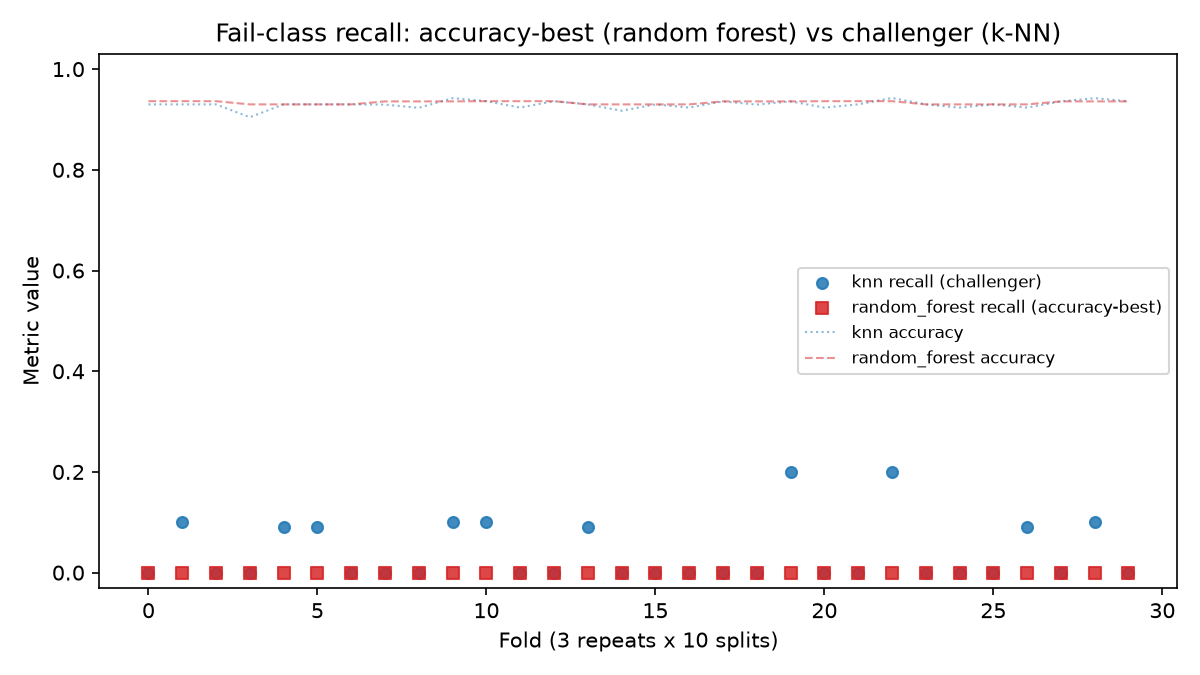
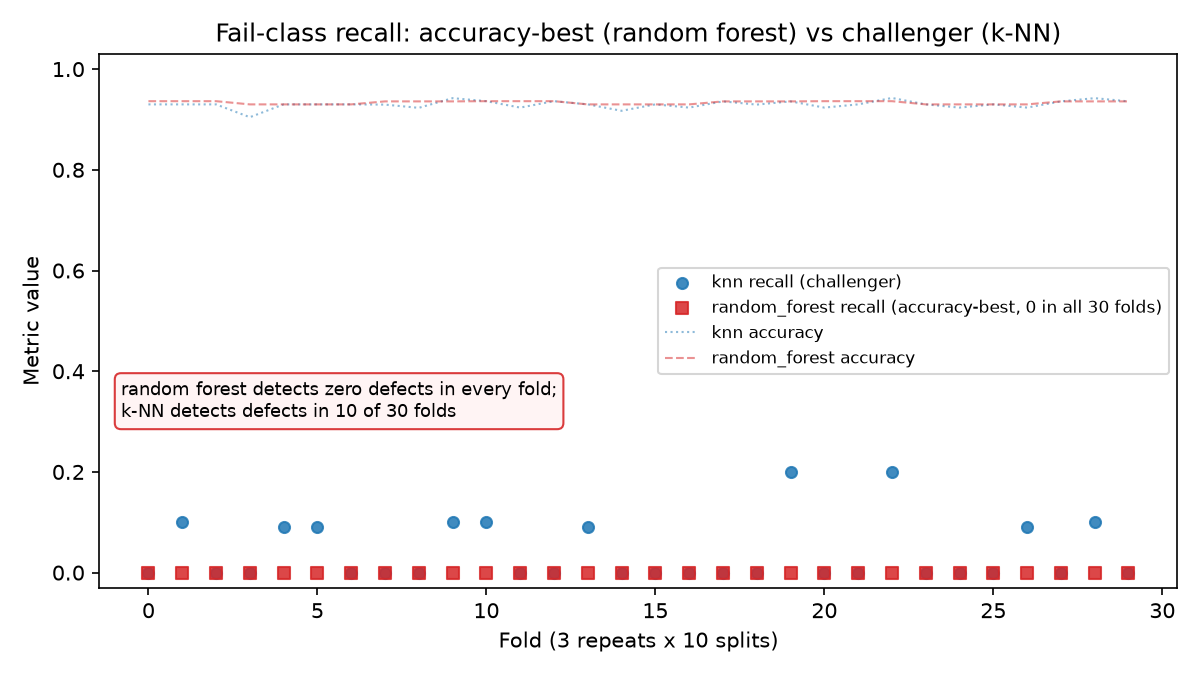
docs(findings): validation amendments and sharper figure 1 (#9)
Independent counter-check (fresh recomputation of every published
number from the raw records, outside analysis.py) confirmed all
results: means, sign test p = 0.001953125, cost tables, pooled
integrity (4701 labels, each unit exactly 3 times), dataset digests
and class counts. Amendments from the audit and decision review:

- findings.md: state the co-primary comparison is the seal's pinned
  0.5-vs-p_star threshold comparison reported descriptively; explain
  ranking_flip_vs_accuracy flag semantics (compares the p_star
  ranking, hence false); note pooling weights each unit exactly 3x;
  add mechanism numbers (random forest max fail probability 0.45,
  below the cutoff everywhere; 83 FN vs 312 at p_star); add k-NN
  per-fold recall spread (0.09-0.20 across 10 folds); add the
  descriptive accuracy-parity addendum (RF better in 14/17 nonzero
  accuracy folds, p ~ 0.013); clarify the 10:1 sensitivity changes
  cost weights only (its own aligned threshold 1/11 is not evaluated).
- fig1: annotate that the random forest detects zero defects in every
  fold vs k-NN's 10 of 30, so the flat-zero scatter cannot be missed.

Changed region(s): [[0.0925, 0.5289, 0.4625, 0.6533], [0.555, 0.4044, 0.9558, 0.56]]

diff --git a/figures/fig1-recall-inversion.py b/figures/fig1-recall-inversion.py
@@ -37,7 +37,7 @@ def main():
     xs = range(n)
     ax.scatter(xs, recall_chal, marker="o", s=28, label=f"{CHALLENGER} recall (challenger)",
                color="#1f77b4", alpha=0.85)
-    ax.scatter(xs, recall_best, marker="s", s=28, label=f"{BEST} recall (accuracy-best)",
+    ax.scatter(xs, recall_best, marker="s", s=28, label=f"{BEST} recall (accuracy-best, 0 in all 30 folds)",
                color="#d62728", alpha=0.85)
     ax.plot(xs, acc_chal, linestyle=":", linewidth=1, color="#1f77b4", alpha=0.5,
             label=f"{CHALLENGER} accuracy")
@@ -47,6 +47,10 @@ def main():
     ax.set_ylabel("Metric value")
     ax.set_title("Fail-class recall: accuracy-best (random forest) vs challenger (k-NN)")
     ax.set_ylim(-0.03, 1.03)
+    ax.annotate("random forest detects zero defects in every fold;\n"
+                "k-NN detects defects in 10 of 30 folds",
+                xy=(0.02, 0.32), xycoords="axes fraction", fontsize=8.5,
+                bbox=dict(boxstyle="round,pad=0.35", fc="#fff3f3", ec="#d62728", alpha=0.9))
     ax.legend(fontsize=8, loc="center right")
     fig.tight_layout()
     out = pathlib.Path(__file__).parent / "fig1-recall-inversion.png"

diff --git a/results/findings.md b/results/findings.md
@@ -40,8 +40,15 @@ records under `results/pilot/` are excluded.
 
 The accuracy-best model (random forest) misses **every** defect across all 30
 test folds (mean fail recall 0.0000; precision identically 0.0000, since it
-never predicts the fail class at all). The challenger (k-NN, second by mean
-accuracy) misses fewer: mean fail recall 0.0388.
+never predicts the fail class at all: its maximum predicted fail probability
+is 0.45, below the 0.5 cutoff on every unit). The challenger (k-NN, second by
+mean accuracy) misses fewer: mean fail recall 0.0388, with nonzero recall in
+10 of 30 folds (0.09 and 0.10 in four folds each, 0.20 in two).
+
+Accuracy is not a consolation for the challenger: on per-fold accuracy the
+random forest is better in 14 of 17 nonzero folds (descriptive addendum, not
+the pre-registered test; two-sided exact binomial p ≈ 0.013) - it is
+significantly more accurate and defect-blind at the same time.
 
 Sign test (pre-specified): per-fold recall difference is nonzero in 10 of 30
 folds; the challenger has higher recall in **10 of 10 nonzero folds**
@@ -52,7 +59,13 @@ the pinned tie rule.
 
 ### Co-primary endpoint: threshold alignment reverses the cost ranking
 
-Expected cost (14:1 baseline), pooled over all folds:
+This is the seal's pinned threshold comparison
+(`cost_analysis.thresholds_compared`: 0.5 vs `p_star` at the baseline ratio),
+reported descriptively per the pre-registration; the sweep behind Figure 2 is
+likewise descriptive.
+
+Expected cost (14:1 baseline), pooled over all folds. Pooling weights each
+of the 1,567 units exactly 3 times (once per repeat), i.e. equally:
 
 | Model | Cost at 0.5 | Cost at p* = 1/15 |
 | --- | --- | --- |
@@ -67,13 +80,24 @@ p* = 1/15 the same random forest becomes cost-**best** (2991): the model
 family that misses every defect at the default threshold wins on total
 expected cost once the threshold matches the cost matrix (Figure 2). The
 mechanism is visible in Figure 4: random-forest probabilities are graded
-around 0.1, so a lower cutoff trades cheap false positives for expensive
-false negatives; the decision tree's degenerate 0/1 outputs make the
+(pooled median 0.06, 95th percentile 0.23, maximum 0.45 - never crossing the
+default cutoff), so a lower threshold trades cheap false positives for
+expensive false negatives (at p* the random forest buys 83 FN instead of 312
+for 1,829 FP); the decision tree's degenerate {0, 1} outputs make the
 threshold irrelevant (4005 at both thresholds).
 
 Sensitivity at 10:1 preserves the ordering at p* (logistic regression 2620 <
 random forest 2659 < k-NN 2808 < decision tree 2957; random forest and
-logistic regression effectively tie).
+logistic regression effectively tie). The sensitivity ratio changes the cost
+weights only; the threshold comparison still uses 0.5 vs p* = 1/15 (a 10:1
+ratio would imply its own aligned threshold of 1/11, which the
+pre-registered run does not evaluate).
+
+`analysis.json` records `ranking_flip_vs_accuracy: false`: that flag compares
+the **p\*** cost ranking with the accuracy ranking (random forest is first in
+both). The ranking flip the exhibit highlights is at the **default 0.5
+threshold**, where random forest drops from first by accuracy to last by
+cost.
 
 Figures:
 
